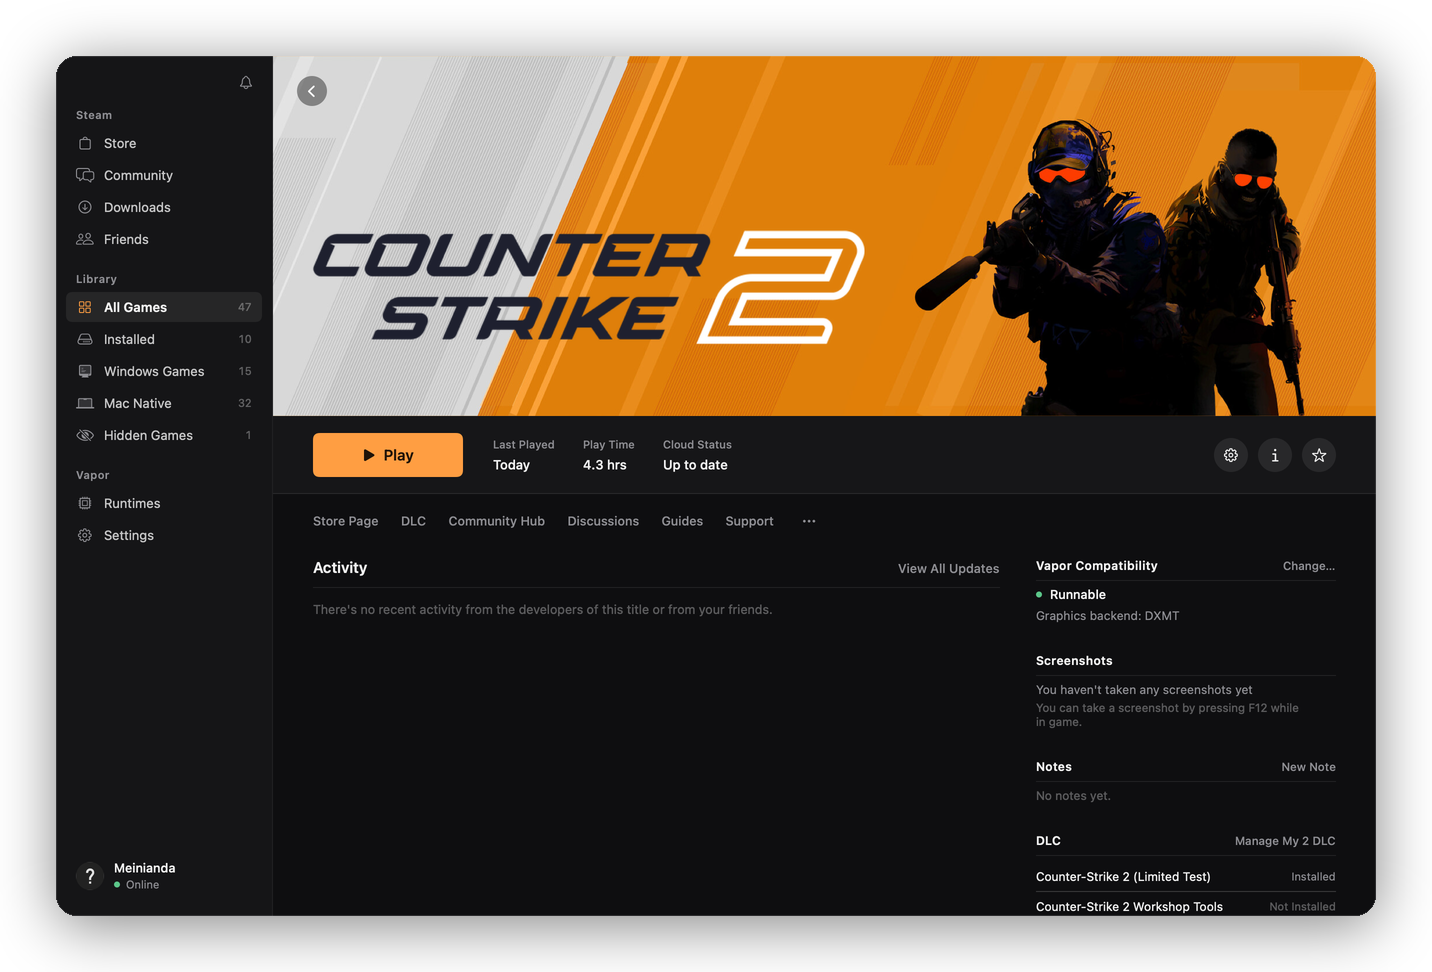
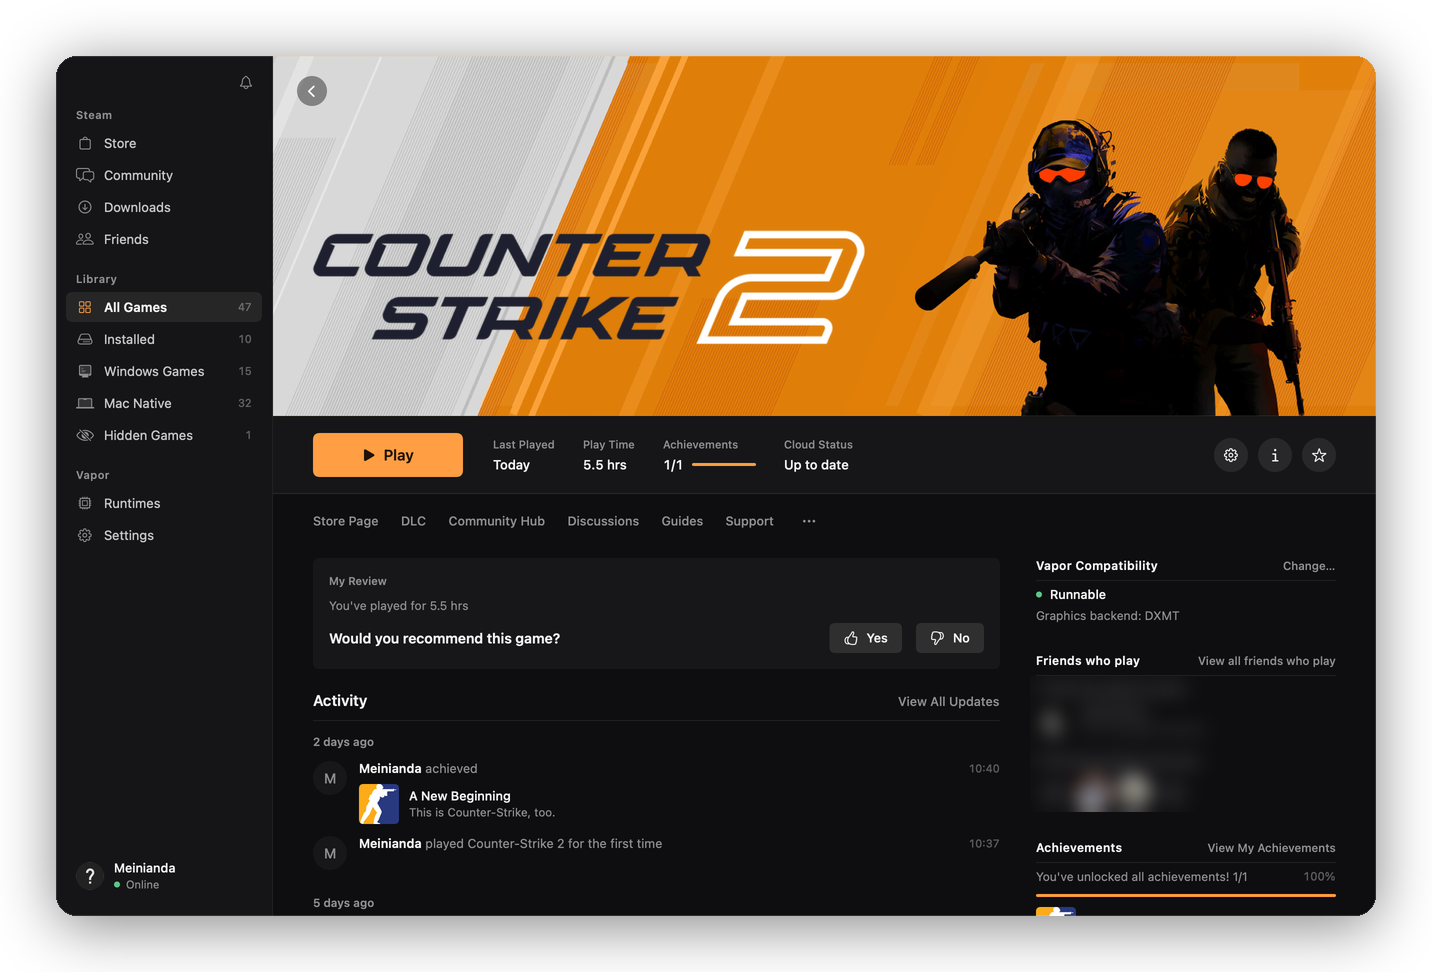
update: Sources/VaporApp/Snapshot.swift, Sources/VaporKit/Engine/SteamUI+AppPage.swift, Tools/blur_region.py, Tools/readme-shots.sh, docs/images/downloads.png and 9 more

diff --git a/Sources/VaporKit/Engine/SteamUI+AppPage.swift b/Sources/VaporKit/Engine/SteamUI+AppPage.swift
@@ -199,7 +199,7 @@ extension SteamUI {
         try await evaluate("\(Self.storeKit)\n\(Self.appPageKit)\nreturn await window.__vaporAppPage.\(call);")
     }
 
-    static let appPageKitVersion = 1
+    static let appPageKitVersion = 2
 
     static let appPageKit = #"""
     if (window.__vaporAppPage?.version !== \#(appPageKitVersion)) window.__vaporAppPage = (() => {
@@ -264,8 +264,10 @@ extension SteamUI {
           return { inGame, recent: [...others(r.in_game), ...others(r.played_recently)], ever: others(r.played_ever), wishlist: others(r.in_wishlist) };
         },
         async activity(appid, limit) {
+          // The first ask starts the client's fetch and hands back an empty record until it lands.
+          const loaded = x => x && ((x.appActivityByDay || []).length || x.m_bNoMoreHistoryAvailable);
           let a = appActivityStore.GetAppActivity(appid);
-          for (let i = 0; !a && i < 40; i++) { await sleep(250); a = appActivityStore.GetAppActivity(appid); }
+          for (let i = 0; !loaded(a) && i < 48; i++) { await sleep(250); a = appActivityStore.GetAppActivity(appid); }
           if (!a) return [];
           const me = self(), out = [];
           const kinds = { 2: 'achievement', 3: 'receivedGame', 10: 'review', 16: 'status', 30: 'firstPlayed', 1002: 'event' };

diff --git a/Sources/VaporApp/Snapshot.swift b/Sources/VaporApp/Snapshot.swift
@@ -74,7 +74,7 @@ enum Snapshot {
         if online { ensureOnline() }
         var storeLoaded = false
         Task { await StoreData.shared.loadHome(state.engine); storeLoaded = true }
-        spin(45) { storeLoaded }
+        spin(45) { storeLoaded && !StoreData.shared.homeLoading }
         capture(state, to: dir.appendingPathComponent("store.png"))
         state.destination = .community
         capture(state, to: dir.appendingPathComponent("community.png"))

diff --git a/Tools/blur_region.py b/Tools/blur_region.py
@@ -1,0 +1,12 @@
+"""Blurs a rectangle of a framed README image, e.g. other people's names and avatars.
+
+    python3 Tools/blur_region.py <image.png> <x0> <y0> <x1> <y1>    (pixels of the framed image)
+"""
+import sys
+
+from PIL import Image, ImageFilter
+
+path, box = sys.argv[1], tuple(int(v) for v in sys.argv[2:6])
+image = Image.open(path)
+image.paste(image.crop(box).filter(ImageFilter.GaussianBlur(9)), box[:2])
+image.save(path, optimize=True)
